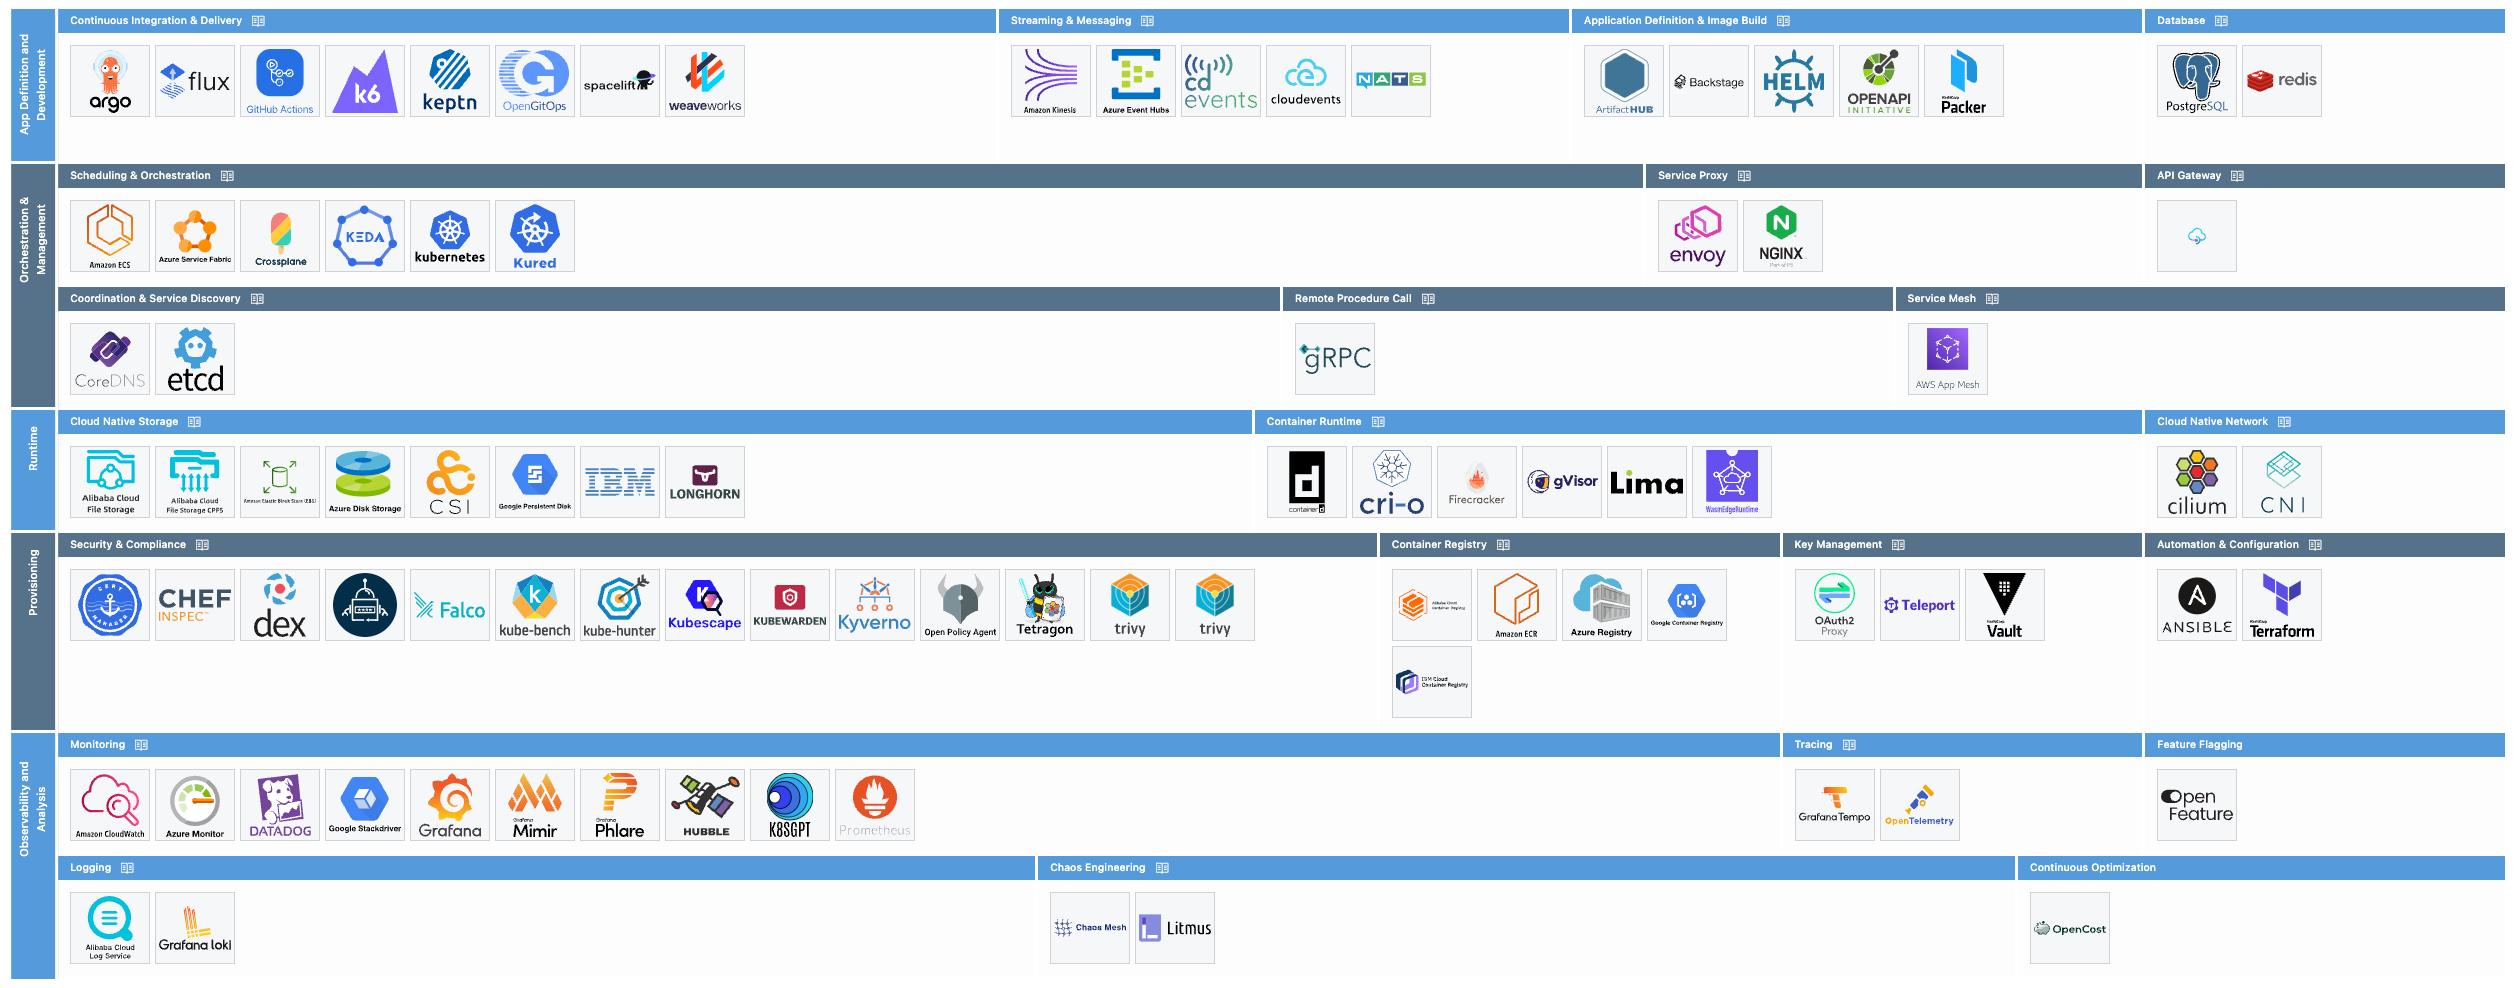
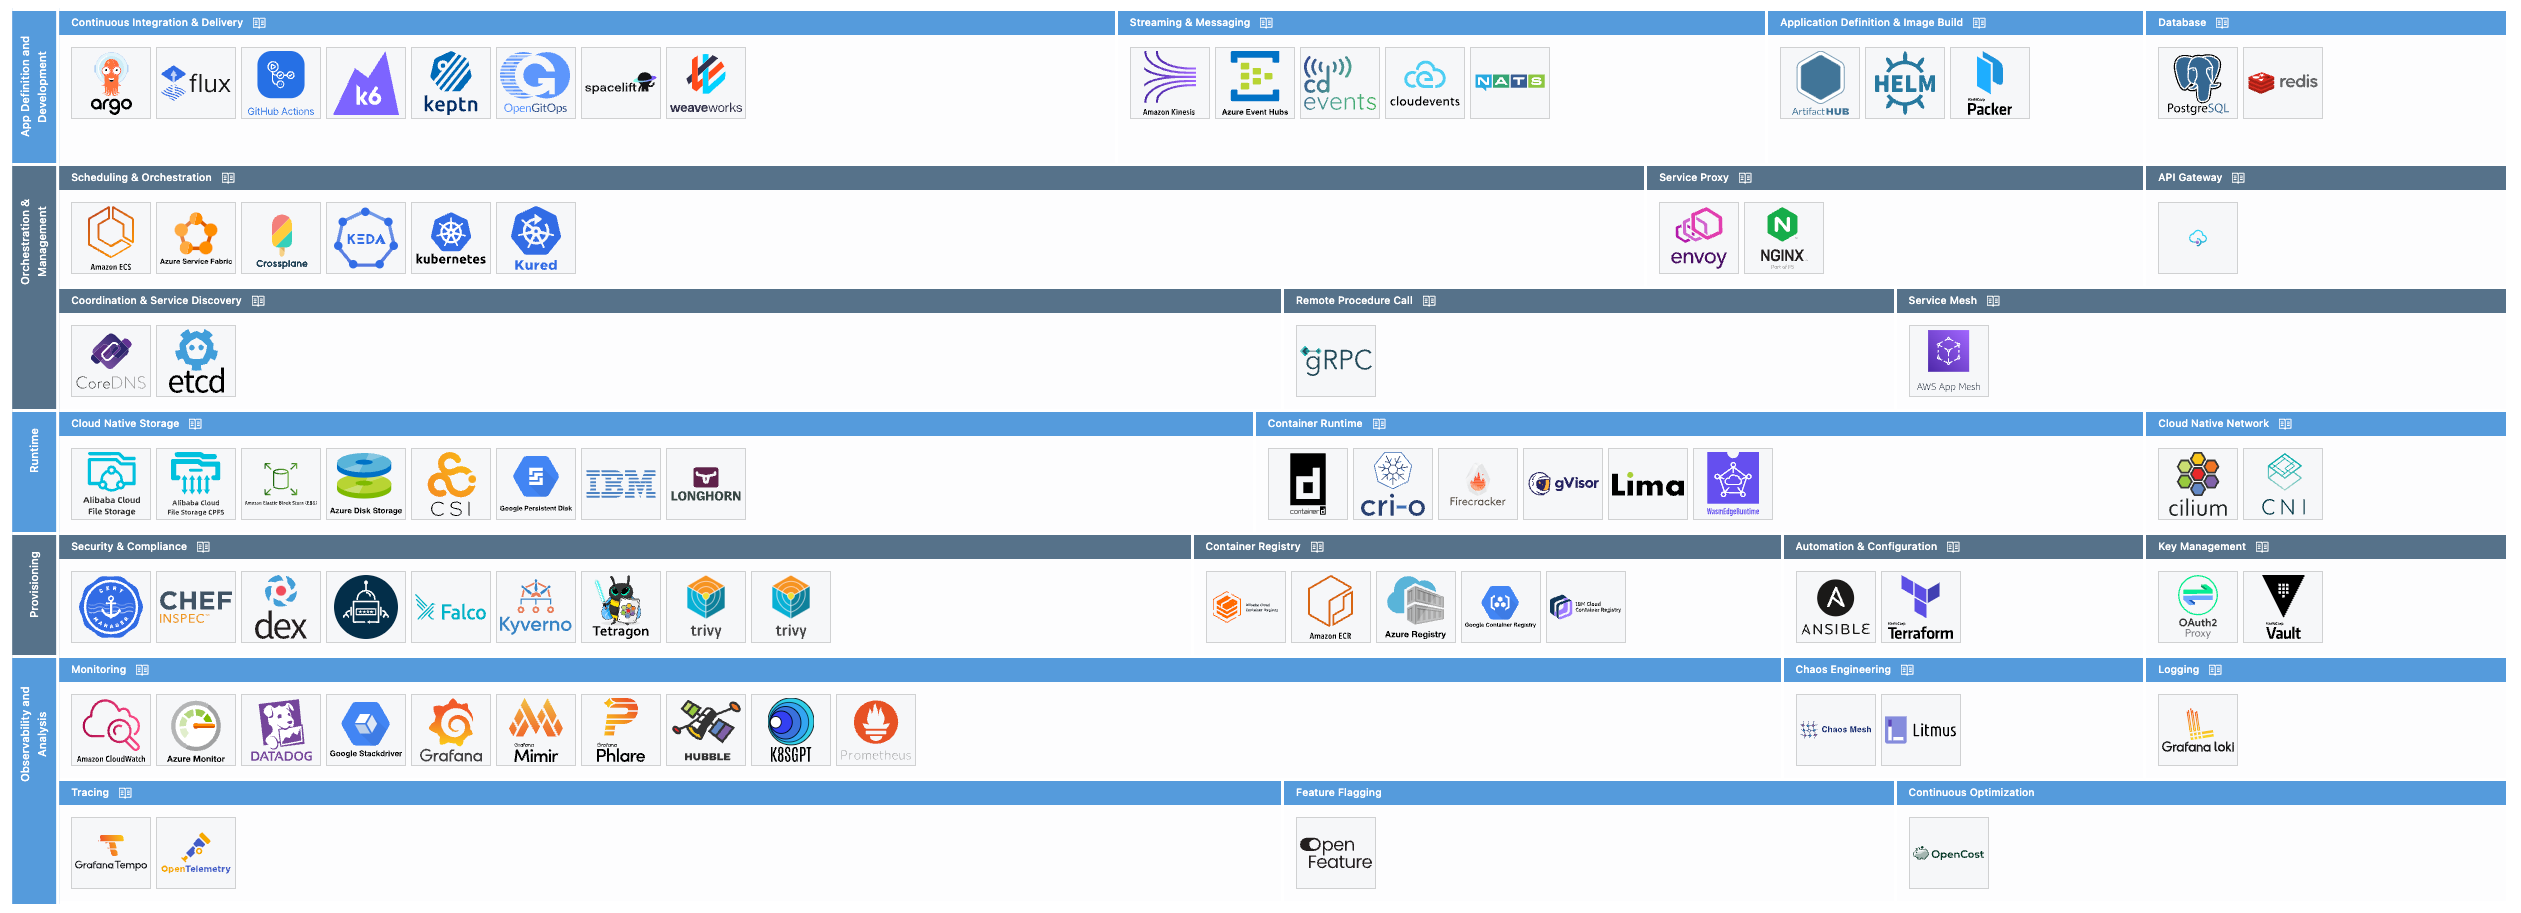
feat(documentation): refresh landing page

diff --git a/content/en/_index.md b/content/en/_index.md
@@ -31,6 +31,16 @@ show_banner: true
 An Open Source project to deploy applications from the Kubernetes ecosystem in different Cloud Providers.
 {{% /blocks/lead %}}
 
+{{% blocks/section color="white" %}}
+{.h1 .text-center}
+<div class="col">
+	<h2 class="text-center pb-3">Cloud Native Applications</h2>
+	<p class="text-center showcase">
+		<img alt="Cloud Native Applications" width="1500" src="/img/about/portefaix-landscape.png" />
+	</p>
+</div>
+{{% /blocks/section %}}
+
 
 {{% blocks/section color="dark" type="row" %}}
 {{% blocks/feature icon="fas fa-wrench" title="Infrastructure As Code" url="./docs/started/getting-started/#installing-portefaix-on-a-public-cloud" %}}
@@ -57,12 +67,12 @@ Open Source components for monitoring, logging and tracing.
 <div class="col">
 	<h2 class="text-center pb-3">Cloud Providers</h2>
 	<p class="text-center showcase">
-		<a href="https://cloud.google.com/"><img alt="Google Cloud" width="100" src="google-cloud.svg" /></a>
-		<a href="https://aws.amazon.com/"><img alt="AWS" width="100" src="aws.svg" /></a>
-		<a href="https://azure.microsoft.com/"><img alt="Azure" width="100" src="azure-icon.svg" /></a>
-		<a href="https://www.scaleway.com/"><img alt="altavr" width="100" src="scaleway-icon.svg" /></a>
-		<a href="https://www.digitalocean.com/"><img alt="Embark Studios" width="100" src="digitalocean-icon.svg" /></a>
-		<a href="https://www.alibabacloud.com/"><img alt="accelbyte" width="100" src="alibabacloud-icon.svg" /></a>
+		<a href="https://cloud.google.com/"><img alt="Google Cloud" width="100" src="/img/cloud/google-cloud.svg" /></a>
+		<a href="https://aws.amazon.com/"><img alt="AWS" width="100" src="/img/cloud/aws.svg" /></a>
+		<a href="https://azure.microsoft.com/"><img alt="Azure" width="100" src="/img/cloud/azure-icon.svg" /></a>
+		<a href="https://www.scaleway.com/"><img alt="altavr" width="100" src="/img/cloud/scaleway-icon.svg" /></a>
+		<a href="https://www.digitalocean.com/"><img alt="Embark Studios" width="100" src="/img/cloud/digitalocean-icon.svg" /></a>
+		<a href="https://www.alibabacloud.com/"><img alt="accelbyte" width="100" src="/img/cloud/alibabacloud-icon.svg" /></a>
 	</p>
 </div>
 {{% /blocks/section %}}
